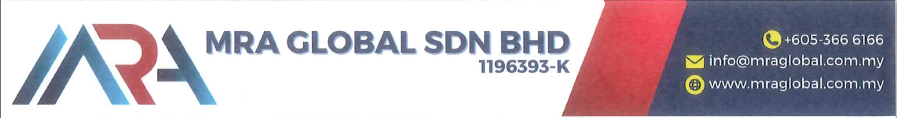
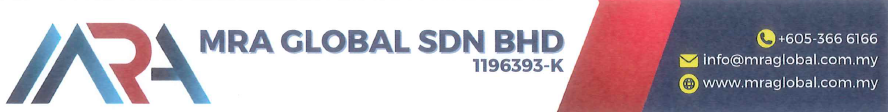
update 11112025
update report quotation

diff --git a/printquotation.php b/printquotation.php
@@ -47,6 +47,17 @@ $page= 1 . " of " . $row['page'];
 <link rel="stylesheet" href="assets/css/bootstrap.min.css" />
 <head>
 	<style>
+        @page {
+        size: A4;
+        margin: 300mm;
+    }
+    body {
+        font-family: Arial, sans-serif;
+        position: relative;
+        min-height: 200vh;
+        margin: 0;
+        padding-bottom: 150px; /* ruang untuk footer */
+    }
 	   .title h1{
 	       text-align: right;
 	   }
@@ -72,15 +83,37 @@ $page= 1 . " of " . $row['page'];
         .signature-section tr:first-child td { font-weight: bold; padding-bottom: 10px; } /* Gaya gambar tandatangan */ 
         .signature-section img { width: 150px; /* saiz tandatangan */ height: auto; display: block; margin: 0 auto 5px auto; /* tengah + jarak bawah */ object-fit: contain; /* supaya tak terpotong */ } /* Garisan tandatangan */ 
         .signature-line { border-top: 1px solid black; margin-top: 40px; display: flex; justify-content: flex-end; /* teks ke sebelah kanan */ align-items: center; height: 20px; } /* Tarikh */ 
-        .date-line { font-size: 12px; text-align: left; margin-top: 3px; } 
+        .date-line { font-size: 12px; text-align: left; margin-top: 4px; }
         .signature-line h6 { margin: 0; font-weight: normal; font-size: 13px; text-align: right; } 
-        img { max-width: 200px; /* Control saiz logo */ display: block; margin: auto; /* Center gambar dalam cell */ }
+        img { max-width: 200px; display: block; margin: auto;}
+        /* --- Footer Tetap di Bawah Setiap Halaman --- */
+        .footer {
+            position: fixed;
+            bottom: 0;
+            left: 0;
+            right: 0;
+            font-size: 10pt;
+            border-top: 1px solid #000;
+            padding: 5px 20px;
+        }
+
+        .footer table {
+            width: 100%;
+            border-collapse: collapse;
+        }
+
+        .footer td {
+            width: 33%;
+            vertical-align: top;
+            padding: 0 5px;
+            text-align: left;
+        }
 	</style>
 </head>
 <body onload="window.print()">
 	<!-- HEADER IMAGE -->
-    <div style="text-align:center; margin-bottom:10px;">
-        <img src="assets/images/mra_header.png" alt="MRA Global Header" style="width:100%; max-width:900px;">
+    <div style="text-align:center; margin-bottom:150px;">
+        <img src="assets/images/mra_header.png" alt="MRA Global Header" style="width:200%; max-width:950px;">
     </div>
     
 	<div class="title">
@@ -226,26 +259,54 @@ $page= 1 . " of " . $row['page'];
 		<h6><?php echo $row['remarks'] ? $row['remarks'] : '';?></h6>
 	</div>
 	<br>
-	<table class="signature-section">
+    <br>
+    <br>
+	<!-- Seksyen tandatangan -->
+    <table class="signature-section">
         <tr>
             <td><h6>Best regards,</h6></td>
-            <td><h6>We Comfirm the order by accepting the terms</h6></td>
+            <td><h6>We Confirm the order by accepting the terms</h6></td>
         </tr>
+        <tr>
             <td>
-                <img src='image/<?php echo $row['signmana'] ? $row['signmana'] : '';?>' alt='Signature'>
+                <img src="image/<?php echo $row['signmana'] ? $row['signmana'] : '';?>" alt="Signature" style="width: 200px;">
                 <div class="signature-line"></div>
                 <div class="date-line"><strong><?php echo $row['name'] ? $row['name'] : '';?></strong></div>
                 <div class="date-line">Managing Director</div>
             </td>
             <td>
-            	<br>
-                <img src="image/chop_placeholder.png" alt="Signature Placeholder" style="opacity:0;"> <!-- untuk balance tinggi -->
+                <br>
+                <br>
+                <img src="image/chop_placeholder.png" alt="Signature Placeholder" style="opacity:0;">
                 <div class="signature-line"><h6>Chop & Sign</h6></div>
                 <div class="date-line">Verified by:</div>
                 <div class="date-line">Date:</div>
             </td>
         </tr>
     </table>
+
+    <!-- Footer -->
+    <div class="footer">
+        <table>
+            <tr>
+                <td>
+                    <strong>HEAD OFFICE :</strong><br>
+                    15-06 & 15-07 PLAZA 138, JALAN AMPANG,<br>
+                    50450 KUALA LUMPUR, MALAYSIA
+                </td>
+                <td>
+                    <strong>BRANCH OFFICE :</strong><br>
+                    NO 20, 20-1, JALAN PUSAT KOMERSIAL PERWIRA GEMAS,<br>
+                    73400 GEMAS, NEGERI SEMBILAN, MALAYSIA
+                </td>
+                <td>
+                    <strong>BRANCH OFFICE :</strong><br>
+                    23A, LALUAN INDUSTRI 1, KAWASAN PERINDUSTRIAN<br>
+                    RINGAN SIPUTEH, 31560 PUSING, PERAK, MALAYSIA
+                </td>
+            </tr>
+        </table>
+    </div>
 </body>
 <?php
 function numberToWordsEnglish($total)
